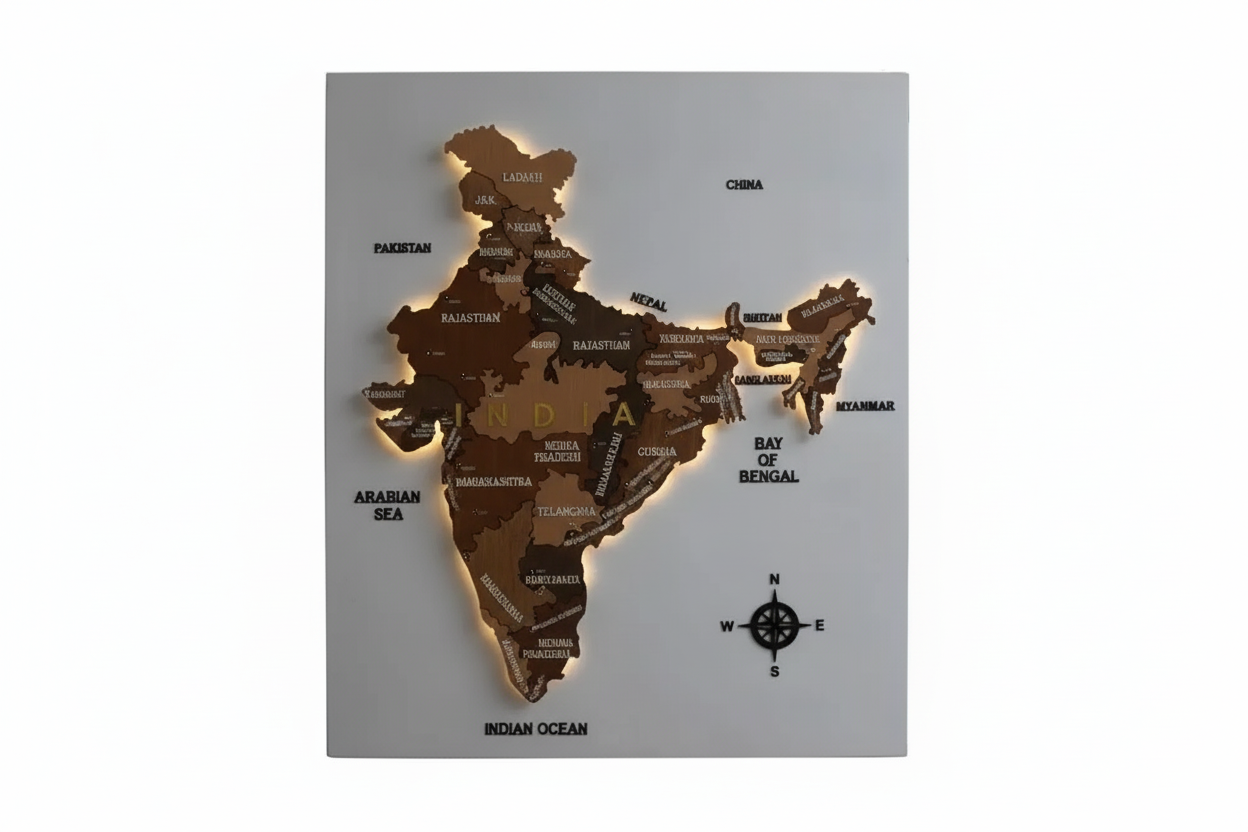
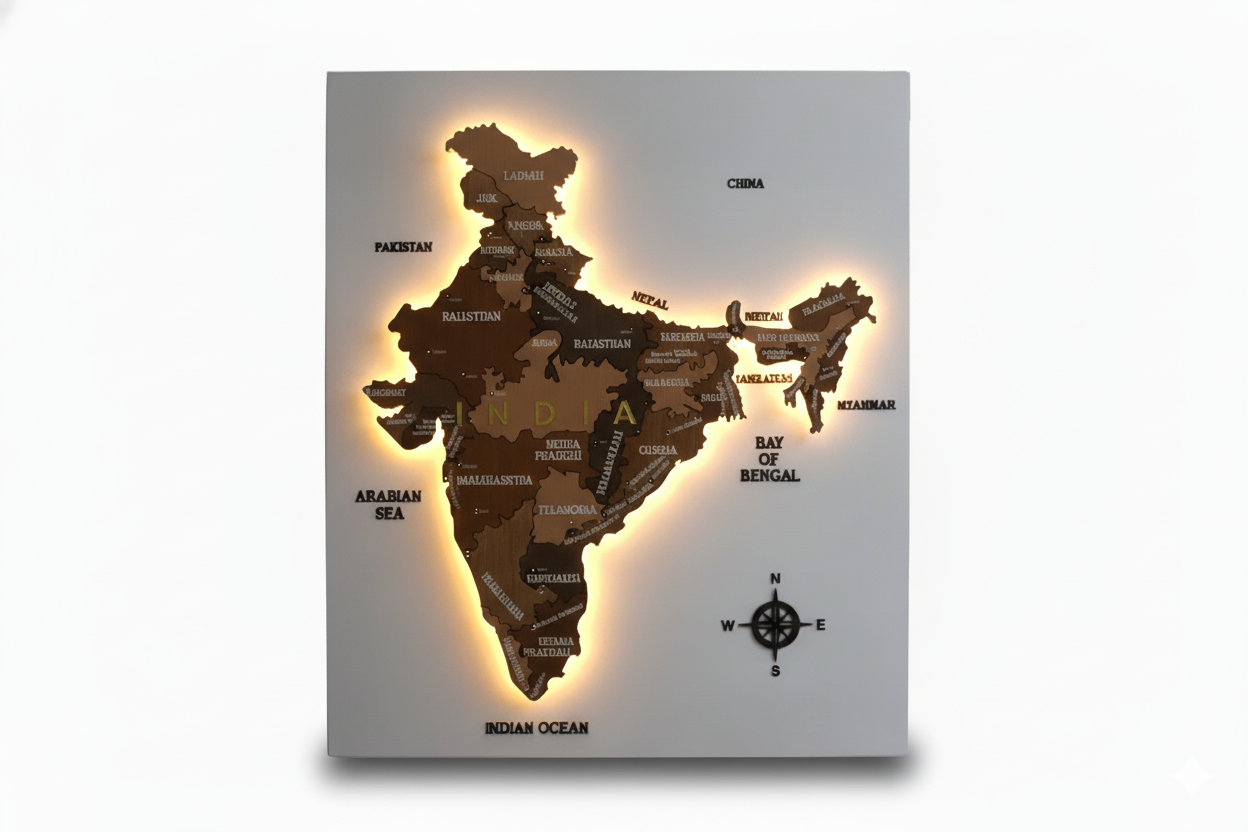
Increase Bharat map size to 1.75x and remove padding

diff --git a/components/home/hero.tsx b/components/home/hero.tsx
@@ -117,27 +117,23 @@ export default function Hero() {
             transition={{ duration: 0.8, delay: 0.3 }}
             className="hidden lg:block relative"
           >
-            <div className="relative">
-              <div className="relative z-10">
-                <img
-                  src="/Bharat.png" 
-                  alt="India Map - Civic Connect" 
-                  className="relative w-full h-auto"
-                  style={{ transform: 'scale(1.75)' }}
-                />
+            <img
+              src="/Bharat.png" 
+              alt="India Map - Civic Connect" 
+              className="w-full h-auto"
+              style={{ transform: 'scale(2)' }}
+            />
+            
+            {/* Static badges */}
+            <div className="absolute -top-4 -right-4 bg-white rounded-xl p-3 shadow-lg border-2 border-gray-200 z-10">
+              <div className="flex items-center gap-2">
+                <div className="w-3 h-3 bg-green-500 rounded-full"></div>
+                <span className="text-sm font-bold text-gray-700">Live</span>
               </div>
-              
-              {/* Static badges */}
-              <div className="absolute -top-4 -right-4 bg-white rounded-xl p-3 shadow-lg border-2 border-gray-200">
-                <div className="flex items-center gap-2">
-                  <div className="w-3 h-3 bg-green-500 rounded-full"></div>
-                  <span className="text-sm font-bold text-gray-700">Live</span>
-                </div>
-              </div>
-              
-              <div className="absolute -bottom-4 -left-4 bg-gradient-to-br from-blue-600 to-indigo-600 text-white rounded-xl p-3 shadow-lg">
-                <div className="text-xs font-bold">50K+ Users</div>
-              </div>
+            </div>
+            
+            <div className="absolute -bottom-4 -left-4 bg-gradient-to-br from-blue-600 to-indigo-600 text-white rounded-xl p-3 shadow-lg z-10">
+              <div className="text-xs font-bold">50K+ Users</div>
             </div>
           </motion.div>
         </div>
